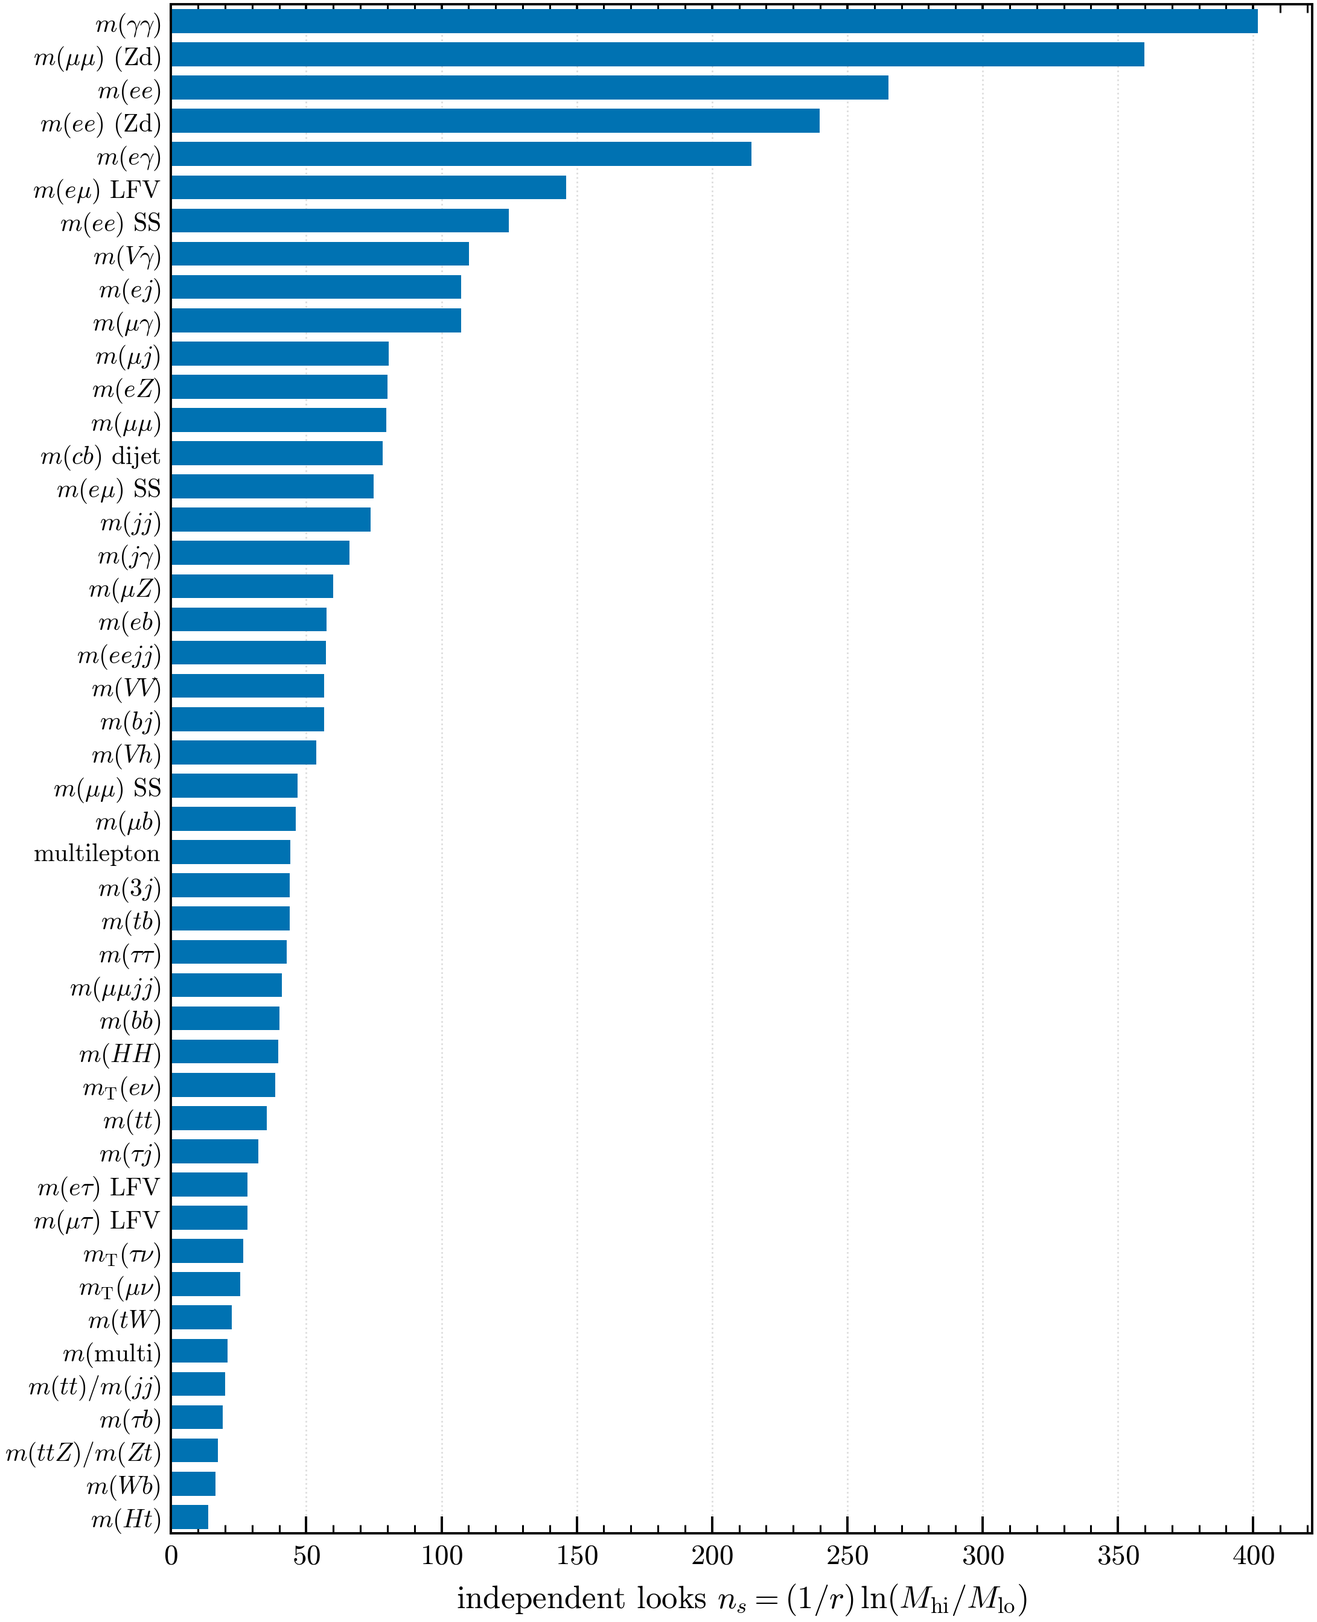
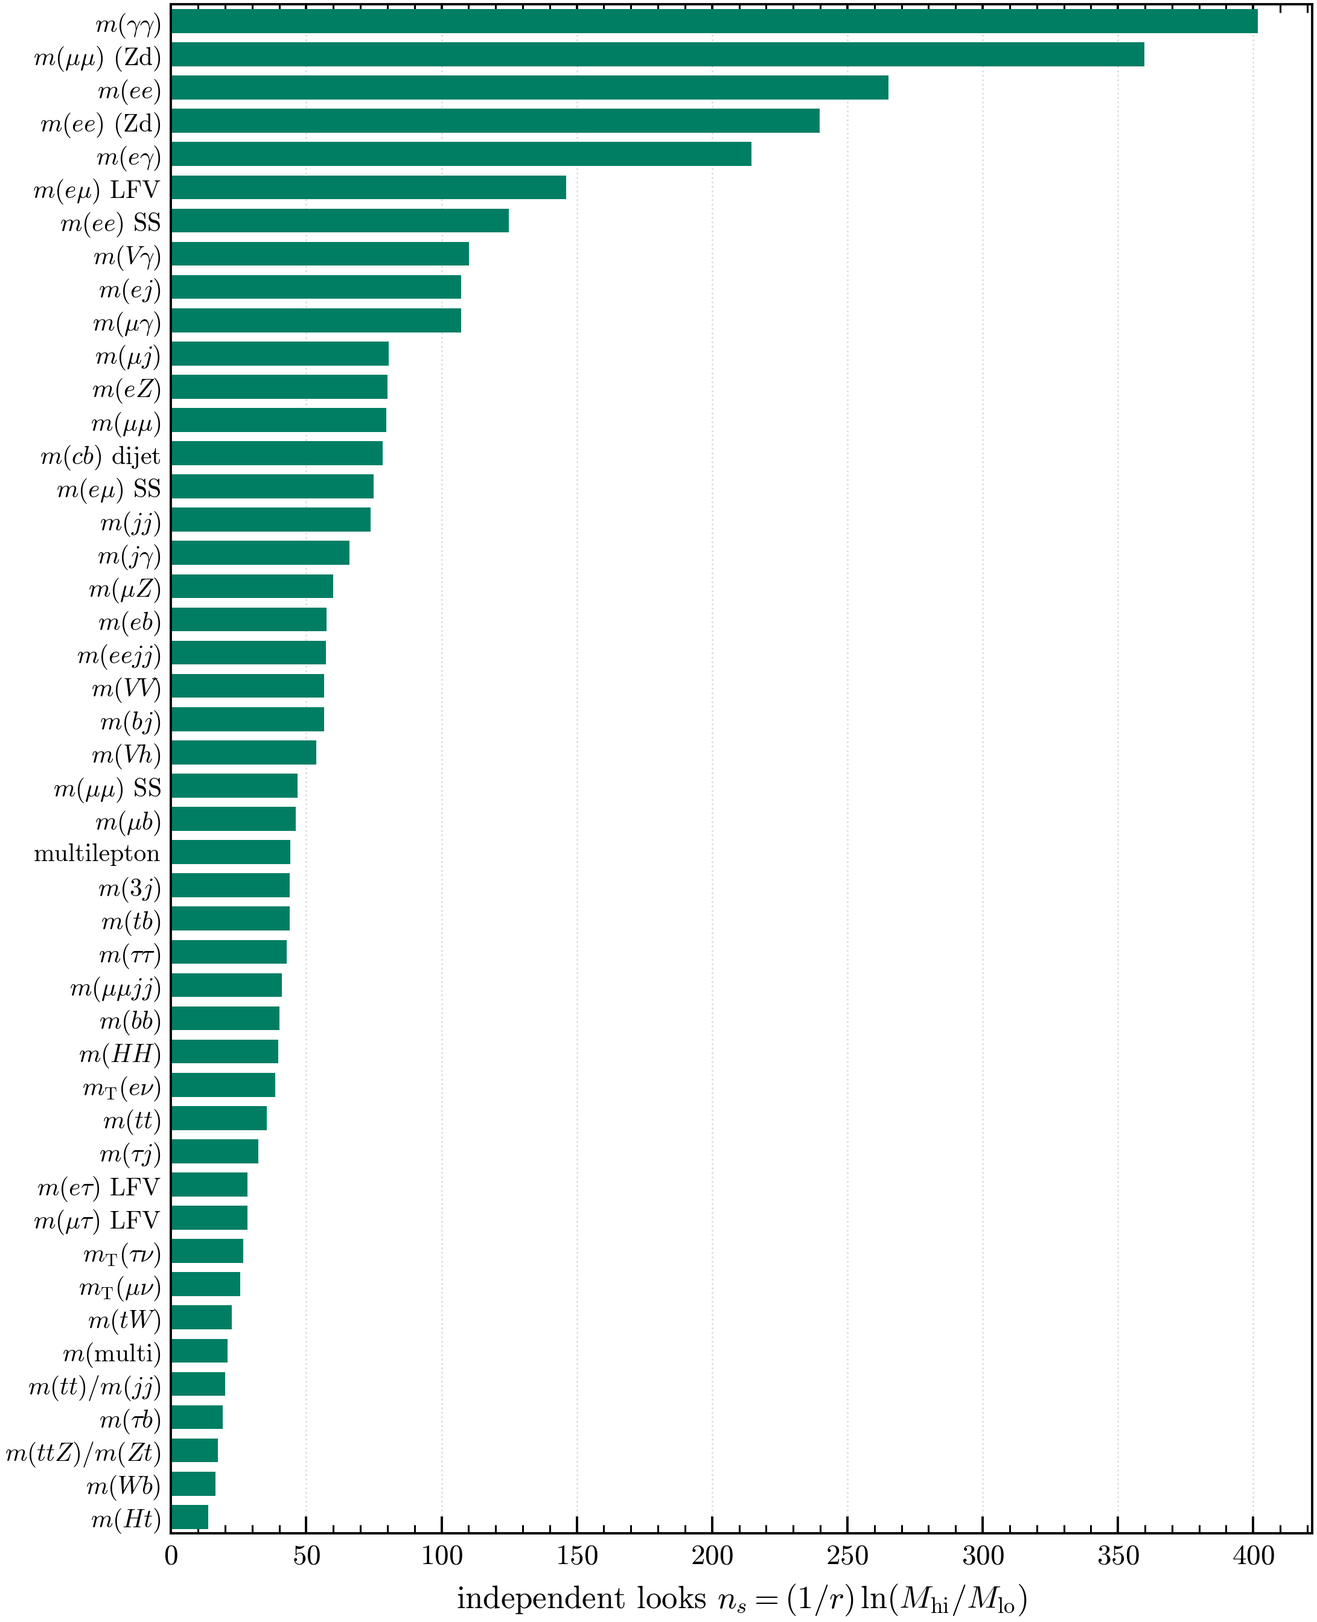
Make the pipeline complete and the README the short version
ab_spurious_guard.py had no make rule, so the figure it writes was committed but not reproducible
from the repository. It is now part of `make ab`, and every rule declares all of its outputs rather
than one of them, so make knows the full output set. Two consecutive forced rebuilds are
byte-identical, figures included, which is what the README now claims.

The README table drops from fifteen rows to nine, quotes the combinatorial scan on Run 2 and Run 3
as the paper does, and adds the share of that scan theory motivates. requirements.txt records the
library versions the committed figures were produced with.

Includes the pending bar-colour constant in budget_plots.py and its regenerated figure.

Changed region(s): [[0.1247, 0.0, 0.9661, 0.9688]]

diff --git a/scripts/budget_plots.py b/scripts/budget_plots.py
@@ -24,6 +24,8 @@ from plot_style import style, mathify, textsafe, MARK, MARK_PALE, INK, INK2, GRI
 OUT = os.path.join(ROOT, "results", "plots")
 os.makedirs(OUT, exist_ok=True)
 
+BUDGET_BAR = "#007E64"          # single-series mark of the budget-bars figure
+
 # ---- the public channel set (canonical observables predicted by >=1 public model)
 pub_models = collections.defaultdict(set)
 for m, obss in PUBLIC_OBS.items():
@@ -43,7 +45,7 @@ fig, ax = plt.subplots(figsize=(5.7, 7.0))
 style(ax, grid=False, minor="x")
 ax.tick_params(axis="y", right=False)   # 46 mirrored category ticks are just noise
 ax.grid(axis="x", color=GRID, lw=0.5, ls=":", alpha=0.9)
-ax.barh(np.arange(len(ranked)), [ns_scan(o) for o in ranked], color=MARK, edgecolor="none",
+ax.barh(np.arange(len(ranked)), [ns_scan(o) for o in ranked], color=BUDGET_BAR, edgecolor="none",
         height=0.72)
 ax.set_yticks(np.arange(len(ranked)))
 ax.set_yticklabels([mathify(o) for o in ranked], fontsize=7.5)

diff --git a/README.md b/README.md
@@ -1,35 +1,38 @@
 # The search budget of the BSM resonance program
 
 A bump hunt scans many mass points, and every additional spectrum anyone scans is another place
-where a fluctuation can turn up. This repository works out how large that penalty really is for the
-BSM resonance program taken as a whole: how many independent bump hunts the published model space
+where a fluctuation can turn up. This repository works out how large that penalty is for the BSM
+resonance program taken as a whole: how many independent bump hunts the published model space
 implies, what local significance a discovery therefore needs before it deserves to be called a
 global 5σ, and how a scan of that size is best run.
 
-Every number comes from published searches and public model databases, so a clone reproduces all of
-it: the tables, the reports and the figures.
+Every input is public, a published search window or a public model database, so a clone reproduces
+all of it. `make all` writes every table, figure, LaTeX fragment and generated report under
+`results/`, and needs nothing else: no ATLAS data, no simulation, no network. These are the numbers
+behind *The Search Budget of the BSM Resonance Program*; `results/plots/` and `results/tex/` are
+generated for that write-up to include directly, so no figure or table in it is drawn by hand.
 
-| | | computed by | the list behind it |
+## The result
+
+The trials count on every basis, narrowest first. Rows are counted differently and are never summed.
+
+| what | the number | computed by | the list behind it |
 |---|---|---|---|
-| bump spectra in the public model space | **46** | [`search_budget.py`](scripts/search_budget.py) | [`search_budget.csv`](results/tables/search_budget.csv), one row per spectrum with its window and source |
-| trials factor | `N ≈ 3.7k` inclusive, `6.6k` at published event-selection granularity | [`search_budget.py`](scripts/search_budget.py) | [`SEARCH_BUDGET.md`](results/overviews/SEARCH_BUDGET.md), [`search_budget_selections.csv`](results/tables/search_budget_selections.csv) |
-| the discovery bar | `Z_local(5σ global) ≈ 6.44 → 6.53`, stable to ±0.1σ under every counting choice | [`search_budget.py`](scripts/search_budget.py) | [`SEARCH_BUDGET.md`](results/overviews/SEARCH_BUDGET.md) |
-| fully combinatorial scan | 712 fittable mass spectra of 1502 across 204 object categories, giving `N ≈ 35k` and `Z_local ≈ 6.78` | [`combinatorial_budget.py`](scripts/combinatorial_budget.py) | [`combinatorial_budget.csv`](results/tables/combinatorial_budget.csv) |
-| scaled up to ten object types | adding hadronic taus, photons, boosted W/Z, H and top: 3603 fittable spectra of 21644, `N ≈ 1.6e5`, `Z_local ≈ 7.00` | [`scaled_scan.py`](scripts/scaled_scan.py) | [`scaled_scan.csv`](results/tables/scaled_scan.csv), [`scaled_scan.txt`](results/tables/scaled_scan.txt) |
-| only fittable histograms count | ≥100 events and ≥25 resolution elements holding ≥1 event, on a declared background-yield model calibrated per object type: it truncates every window at its one-event mass and drops 18041 of the 21644 histograms. A ×10⁴ band on the yield anchor moves `Z_local` by 0.14σ | [`yield_model.py`](scripts/yield_model.py) | run it for the per-object calibration table |
-| which dataset that assumes | Run 2, 140 fb⁻¹, the dataset the published scan windows come from. Run 2 plus Run 3 is ×3 and makes 4438 spectra fittable rather than 3603, `Z_local` 7.03: reach grows only as the sixth root of the luminosity | [`scaled_scan.py`](scripts/scaled_scan.py) | [`scaled_scan.txt`](results/tables/scaled_scan.txt), the closing block |
-| held to a trials budget | `N ≤ 5e5` never binds: the whole fittable scan costs 1.6e5, and 2.9e5 with lenses, so the priority order (model-motivated axes first, then highest yield) has nothing to cut. Statistics limits a wide scan, not the trials factor | [`scaled_scan.py`](scripts/scaled_scan.py) | [`priority_scan.csv`](results/tables/priority_scan.csv), per composition kept against dropped |
-| selection lenses | HT/Meff, displaced, VBF and ISR views of the same axes, one lens at a time and each paying its own efficiency: 3008 views survive and 4686 are too thin to fit, giving 1.8 histograms per spectrum and `Z_local = 7.08` | [`scaled_scan.py`](scripts/scaled_scan.py) | [`lens_scan.csv`](results/tables/lens_scan.csv), per lens what it adds and what survives |
-| never scanned | **57 of 82** reachable ≤4-object mass compositions have no published ATLAS bump hunt | [`composition_gap.py`](scripts/composition_gap.py) | [`composition_gap.txt`](results/tables/composition_gap.txt), which names all 82 |
-| the published record | **86** catalogued spectra over **290** ATLAS papers; 19 not revisited since before 2019, of which 12 sit on an axis already counted; 6 with a Run-3 result | [`published_census.py`](scripts/published_census.py) | [`published_spectra.csv`](data/published_spectra.csv), one row per spectrum with its arXiv references, and [`census_papers.csv`](data/census_papers.csv) with the title, journal and DOI of every one |
-| observed against expected excesses | the published 3σ and 5σ count is what `N` predicts | [`excess_counting.py`](scripts/excess_counting.py) | [`EXCESS_COUNTING.md`](results/overviews/EXCESS_COUNTING.md) |
+| spectra the public model space populates | **46** | [`search_budget.py`](scripts/search_budget.py) | [`search_budget.csv`](results/tables/search_budget.csv), one row per spectrum with its window and source |
+| the trials factor and the discovery bar | `N ≈ 3.7k` → `Z_local = 6.44`, or `6.6k` → `6.53` at published event-selection granularity | [`search_budget.py`](scripts/search_budget.py) | [`SEARCH_BUDGET.md`](results/overviews/SEARCH_BUDGET.md) |
+| the published ATLAS program, all searches | `N ~ 5e4` → `Z_local = 6.83`, taken from the literature rather than from this enumeration | [`search_budget.py`](scripts/search_budget.py) | [`EXCESS_COUNTING.md`](results/overviews/EXCESS_COUNTING.md), where the anchor and its sources are set out |
+| a fully combinatorial scan, Run 2+3 | every mass built from ≤4 of ten object types: **4438** fittable spectra of 21644, `N = 2.0e5` → `Z_local = 7.03` | [`scaled_scan.py`](scripts/scaled_scan.py) | [`scaled_scan.txt`](results/tables/scaled_scan.txt), the closing per-dataset block |
+| how much of that scan theory motivates | **2411 of 4438** spectra (54%) sit on a model-motivated mass axis, over 37 of the 258 fittable object compositions | [`scaled_scan.py`](scripts/scaled_scan.py) | [`priority_scan.csv`](results/tables/priority_scan.csv), per composition |
+| the published record | **86** catalogued spectra over **290** ATLAS papers; 19 not revisited since before 2019, of which 12 sit on an axis already counted | [`published_census.py`](scripts/published_census.py) | [`published_spectra.csv`](data/published_spectra.csv), one row per spectrum with its arXiv references |
+| observed against expected excesses | the published 3σ and 5σ count is what `N` predicts, with no adjustment | [`excess_counting.py`](scripts/excess_counting.py) | [`REPORTED_EXCESSES.md`](results/overviews/REPORTED_EXCESSES.md) |
 | two-stage A/B unblinding | costs about 0.5σ in reach, buys a trials factor you can count exactly | [`ab_split_budget.py`](scripts/ab_split_budget.py) | [`TWO_STAGE_UNBLINDING.md`](results/overviews/TWO_STAGE_UNBLINDING.md) |
-| selection rules under an imperfect estimator | a fixed threshold beats both argmax and Benjamini-Hochberg | [`bh_fdr_outliers.py`](scripts/bh_fdr_outliers.py) | [`MAX_OF_GAUSSIANS.md`](results/overviews/MAX_OF_GAUSSIANS.md), [`bh_fdr_scan.csv`](results/tables/bh_fdr_scan.csv) |
+| selection rules under an imperfect estimator | a fixed threshold beats both argmax and Benjamini-Hochberg, by more as the estimator degrades | [`bh_fdr_outliers.py`](scripts/bh_fdr_outliers.py) | [`MAX_OF_GAUSSIANS.md`](results/overviews/MAX_OF_GAUSSIANS.md) |
 
-Every window carries the published search it was taken from, so any single row can be checked
-against its source without rerunning anything.
+A factor 50 in `N` separates the known model space from the fully combinatorial scan, and moves the
+bar by 0.6σ, because `N` enters only through its logarithm. That is the point of the whole exercise:
+breadth is cheap, and the answer barely depends on how finely the program is sliced.
 
-## Quick start
+## Reproducing it
 
 ```bash
 pip install -r requirements.txt        # numpy / scipy / matplotlib
@@ -37,20 +40,28 @@ make all                               # every table, report and figure
 make help                              # the individual stages
 ```
 
-The budget itself (`search_budget.py`, `combinatorial_budget.py`, `composition_gap.py`) is pure
-standard library and runs under any `python3`; only the figures and the Monte Carlo need the
-dependencies. Targets are file-level, so a rerun redoes just what has gone stale.
+A full rebuild is byte-identical, figures included, so `git status` stays clean afterwards and
+anything that does differ is a real change. The Monte Carlo is seeded and cached in
+`results/tables/*.npz` (pass `--refit` to redo it), and the figures reproduce exactly under the
+library versions recorded in `requirements.txt`. Targets are file-level, so a rerun redoes only what
+has gone stale. The three hand-written reports in `results/overviews/` are the only files under
+`results/` that no script produces, and [`docs/OUTPUTS.md`](docs/OUTPUTS.md) marks them.
 
-One script is outside `make all` and needs the network: `fetch_census_meta.py` refreshes the
-bibliographic details of the census papers from the arXiv API. Its output is committed, so
-everything else, including the generated bibliography, builds offline. Run it only after adding an
-arXiv ID to `published_spectra.csv`, and it will fetch just the new one.
+The budget itself, `search_budget.py`, `combinatorial_budget.py`, `scaled_scan.py` and
+`composition_gap.py`, is pure standard library and runs under any `python3`; only the figures and
+the Monte Carlo need the dependencies.
+
+Two scripts are outside `make all` because they need the network: `fetch_census_meta.py` and
+`fetch_census_abstracts.py` refresh the bibliographic details and abstracts of the census papers
+from the arXiv API. Their output is committed, so everything else, including the generated
+bibliography, builds offline. Run them only after adding an arXiv ID to `published_spectra.csv`,
+and they will fetch just the new one.
 
 ## How the counting works
 
 One bump hunt means one invariant-mass spectrum. Every model that peaks in the same spectrum is
 tested by the same search, so the number of searches is the number of distinct mass axes rather than
-the number of models.
+the number of models, and reinterpretation costs nothing.
 
 Within one spectrum, a resonance is resolvable if it sits at least a width away from its neighbour.
 Taking the fractional resolution `σ_M/M = r` as constant gives
@@ -61,65 +72,63 @@ N   = Σ n_s                            summed over spectra
 Z_local = sqrt(25 + 2 ln N)            the local bar for a 5σ global discovery
 ```
 
-Two conventions matter more than anything else in the arithmetic.
+Three conventions matter more than anything else in the arithmetic.
 
-The window is always the one a published search family actually scanned, recorded per spectrum with
-a source note. Counting over the mass range covered by whatever signal samples happen to exist
-instead would understate thinly sampled channels and make the whole exercise circular.
+**The window is the published one.** Every spectrum is counted over the range a published search
+family actually scanned, recorded per spectrum with a source note. Counting over the mass range
+covered by whatever signal samples happen to exist instead would understate thinly sampled channels
+and make the whole exercise circular.
 
-The resolution `r` is the one genuine physics input, and it is only known to a factor of a few. So
-no result is quoted as a single number: each is given with the band that follows from scaling `r` by
-two in either direction, which moves `N` by a factor of two and `Z_local` by about 0.1σ. That the
-answer barely moves is the point. Because `N` enters through `ln N`, breadth is cheap, and the
-budget is remarkably insensitive to how finely you choose to slice the program.
+**The resolution is the one physics input, and carries a band.** `r` is known only to a factor of a
+few, so no result is quoted as a single number: each is given with the band that follows from
+scaling `r` by two in either direction, which moves `N` by a factor of two and `Z_local` by about
+0.1σ.
+
+**A hypothetical spectrum has to hold enough events to fit.** Wherever a spectrum has not been
+published, `yield_model.py` requires at least 100 events and at least 25 resolution elements holding
+one event or more, on a declared power-law background calibrated per object type. It truncates every
+window at its one-event mass and drops the spectrum if too little is left, which removes four of
+every five combinations of the ten-object scan. Published windows are exempt, because a published
+search demonstrates its own feasibility. Run the module for its calibration table.
+
+## Where the definitions live
+
+`scripts/bump_observables.py`, `scripts/public_obs_map.py` and `scripts/yield_model.py` hold every
+definition the numbers rest on: the fractional resolution and analysable mass floor of each
+spectrum, its published scan window together with the source that window came from, the map from
+public model classes to the spectra they populate, how many event selections each published search
+family scans on a given axis, and the yield model behind the statistics requirement. They also
+settle the cases where two labels describe the same mass axis, so `m(HH) 4b` counts as one more
+event selection of `m(HH)` rather than as a second spectrum.
+
+Everything else imports them. If you need a window or a resolution, take it from there rather than
+writing it down again locally, because a second copy of a number will eventually disagree with the
+first. The modules check themselves when imported, so an incomplete channel fails loudly instead of
+quietly dropping out of a table.
 
 ## What is here
 
 ```
 ├── Makefile                 one entry point for every step  (make help)
-├── scripts/
-│   ├── bump_observables.py  ** the observables: resolutions, floors, published scan windows **
-│   ├── public_obs_map.py    ** public model to spectrum map, published event-selection counts **
-│   ├── yield_model.py       ** what a hypothetical spectrum holds, and whether it can be fitted **
-│   └── ...                  one concern per file
-├── data/
-│   ├── published_spectra.csv  the ATLAS resonance-search record, one row per spectrum
-│   └── census_papers.csv     title, journal and DOI of every paper it cites
-├── results/
-│   ├── tables/              machine-readable tables and the cached Monte Carlo (.npz)
+├── scripts/                 one concern per file; the three modules above own the definitions
+├── data/                    the only hand-curated input: the ATLAS publication record, with the
+│                            bibliographic details and abstracts fetched for it
+├── results/                 written by `make all`
+│   ├── tables/              machine-readable tables, and the cached Monte Carlo (.npz)
 │   ├── plots/               figures; plots/max_of_gaussians/ is the selection-rule study
-│   ├── tex/                 the census bibliography and its per-spectrum appendix
-│   └── overviews/           the written reports, incl. the full census reference list
+│   ├── tex/                 LaTeX fragments for a consuming document to \input
+│   └── overviews/           the written reports: four generated, three authored by hand
 └── docs/
     ├── METHOD_NOTES.md      the counting conventions and why each one is what it is
-    └── OUTPUTS.md           every output file and the script that writes it
+    └── OUTPUTS.md           every output file, and the script that writes it
 ```
 
-The reports in `results/overviews/` are the long form of the rows above:
-[`SEARCH_BUDGET.md`](results/overviews/SEARCH_BUDGET.md) for the budget itself, with the full
-per-spectrum table; [`EXCESS_COUNTING.md`](results/overviews/EXCESS_COUNTING.md) for the check
-against the excesses ATLAS has actually published;
-[`TWO_STAGE_UNBLINDING.md`](results/overviews/TWO_STAGE_UNBLINDING.md) for the A/B scheme and its
-caveats; [`MAX_OF_GAUSSIANS.md`](results/overviews/MAX_OF_GAUSSIANS.md) for the selection rules; and
-[`PUBLISHED_CENSUS.md`](results/overviews/PUBLISHED_CENSUS.md) for what the publication record itself
-contains, including the spectra that have gone stale, with all 290 of its papers written out in full
-in [`CENSUS_REFERENCES.md`](results/overviews/CENSUS_REFERENCES.md).
-[`docs/OUTPUTS.md`](docs/OUTPUTS.md) maps every output file to the script that writes it, and
-[`docs/METHOD_NOTES.md`](docs/METHOD_NOTES.md) gives the reasoning behind each counting convention.
-
-## Where the definitions live
-
-`scripts/bump_observables.py` and `scripts/public_obs_map.py` hold every definition the numbers rest
-on: the fractional resolution and analysable mass floor of each spectrum, its published scan window
-together with the source that window came from, the map from public model classes to the spectra they
-populate, and how many event selections each published search family scans on a given axis. They
-also settle the cases where two labels describe the same mass axis, so `m(HH) 4b` counts as one more
-event selection of `m(HH)` rather than as a second spectrum.
-
-Everything else imports them. If you need a window or a resolution, take it from there rather than
-writing it down again locally, because a second copy of a number will eventually disagree with the
-first. Both modules check themselves when imported, so an incomplete channel fails loudly instead of
-quietly dropping out of a table.
+The four generated reports are [`SEARCH_BUDGET.md`](results/overviews/SEARCH_BUDGET.md), the budget
+with its full per-spectrum table; [`PUBLISHED_CENSUS.md`](results/overviews/PUBLISHED_CENSUS.md),
+what the publication record contains, including the spectra that have gone stale;
+[`REPORTED_EXCESSES.md`](results/overviews/REPORTED_EXCESSES.md), every excess ≥3σ reported in the
+census abstracts; and [`CENSUS_REFERENCES.md`](results/overviews/CENSUS_REFERENCES.md), all 290
+papers written out in full.
 
 ## Scope
 

diff --git a/docs/OUTPUTS.md b/docs/OUTPUTS.md
@@ -61,6 +61,7 @@ Generated for a consuming document to `\input`, the same way `results/plots/` is
 | `ab_split_reach.png`, `ab_split_crossover.png` | `ab_split_budget.py` |
 | `ab_toys_background.png`, `ab_toys_power.png`, `ab_toys_spectrum.png` | `ab_split_toys.py` |
 | `ab_split_outliers.png`, `ab_outliers_mechanism.png`, `ab_outliers_spectrum.png` | `ab_split_outliers.py` |
+| `ab_spurious_guard.png` | `ab_spurious_guard.py` — the split acting as a spurious-signal guard, on two toy spectra |
 
 ### `results/plots/max_of_gaussians/` — figures of `MAX_OF_GAUSSIANS.md`
 
